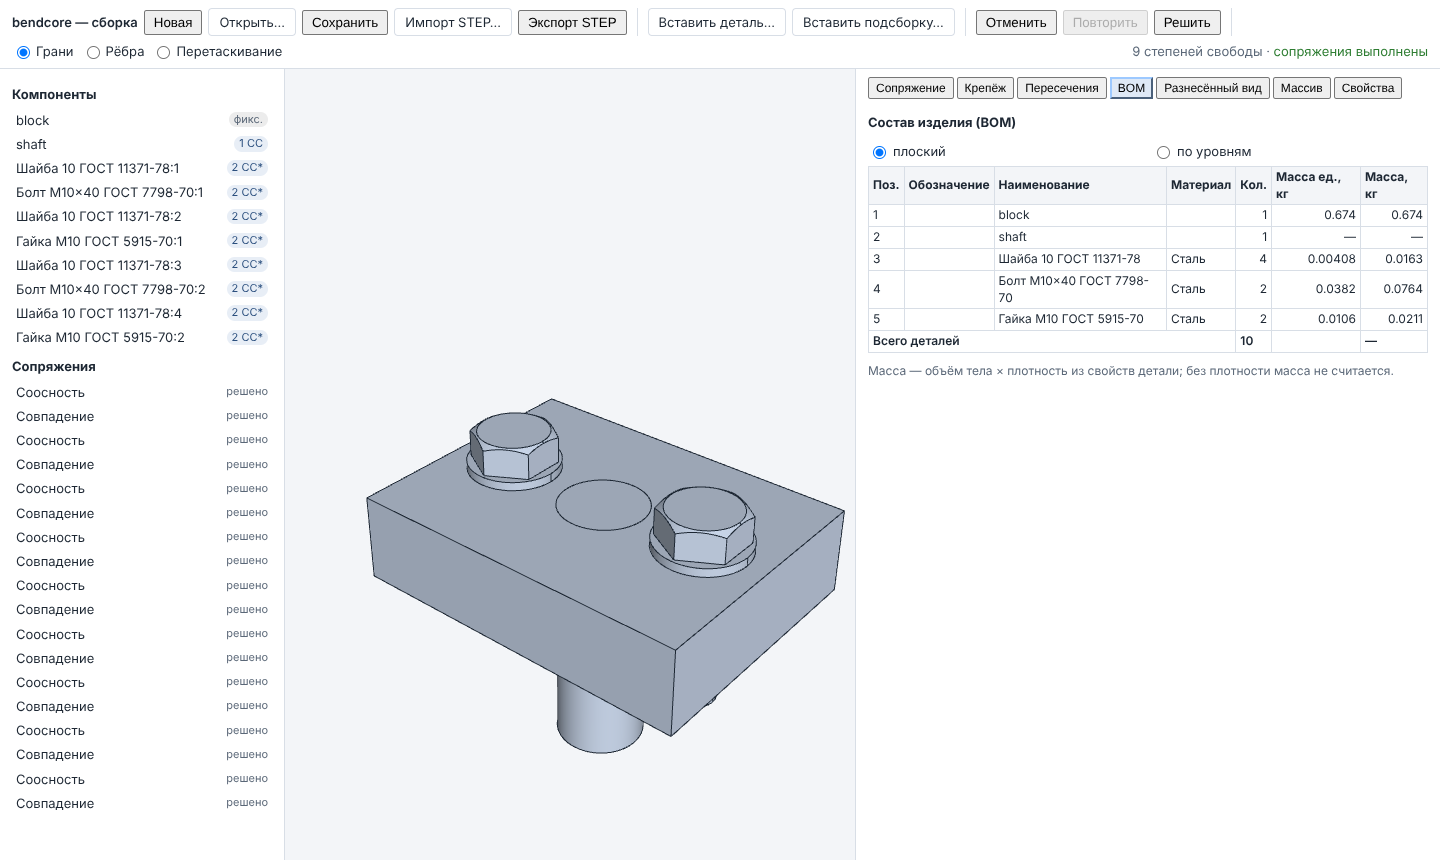
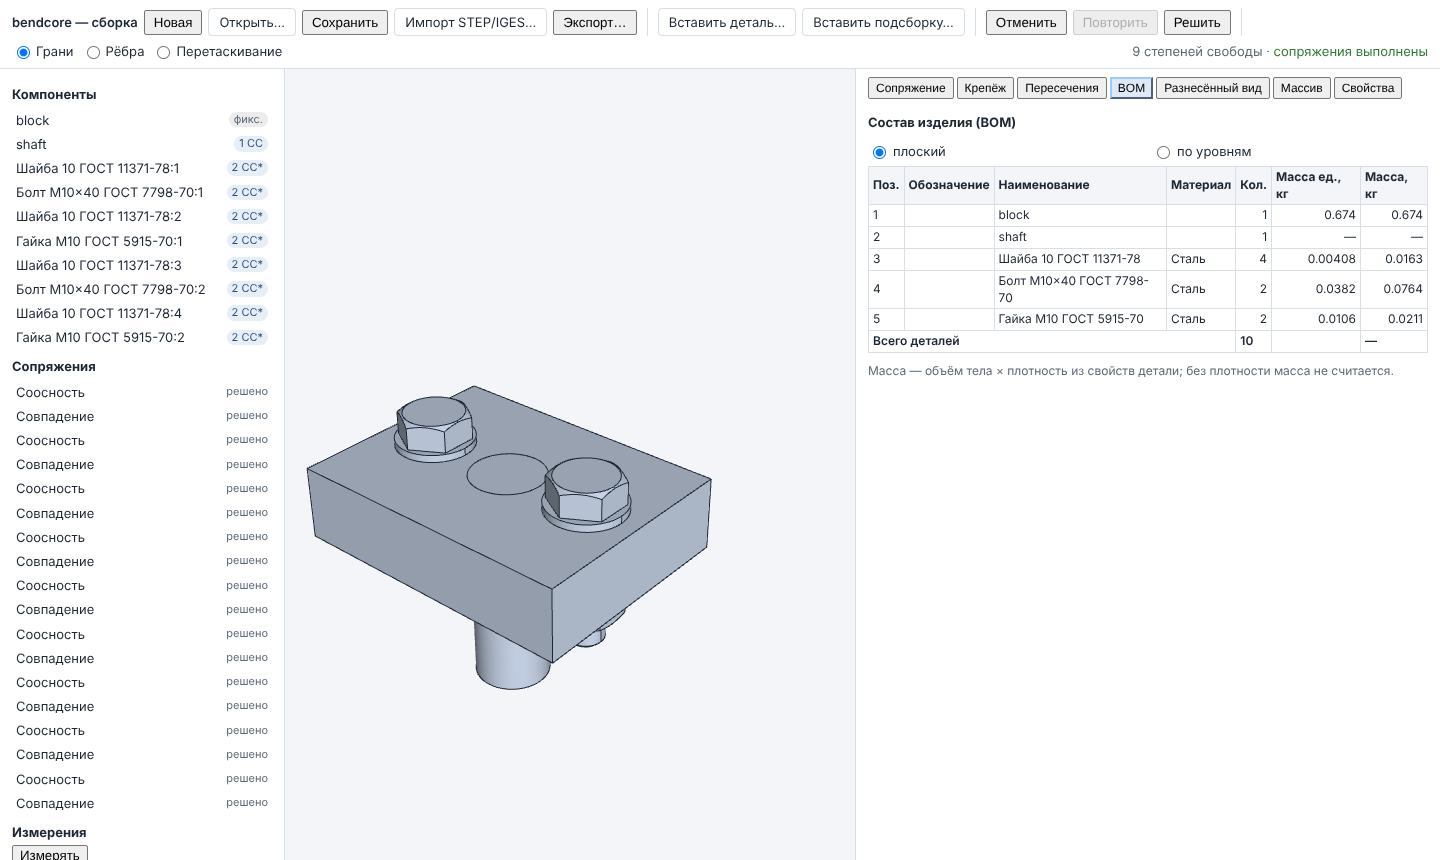
Docs: three.js 0.187, refreshed viewport screenshots
Claude-Session: https://claude.ai/code/session_01Rpe6GEasUXj3fCuBptXKpM

Changed region(s): [[0.1875, 0.4535, 0.5938, 0.8767], [0.3438, 0.0, 0.8438, 0.0302], [0.0, 0.9674, 0.0625, 1.0]]

diff --git a/docs/ui/KERNEL_VIEWPORT.md b/docs/ui/KERNEL_VIEWPORT.md
@@ -138,14 +138,14 @@ message}`, исключения OCCT (`Standard_Failure`) и `std::exception` п
   соединяют соседние точки одной полилинии (`edgeBuffers.ts`). Грани рисуются с
   `polygonOffset`, чтобы рёбра были видны поверх.
 - **Выбор**: щелчок без перетаскивания (≤ 4 px) → `Raycaster.intersectObject` →
-  `faceIndex` треугольника (three.js r128 для индексированной геометрии даёт номер
+  `faceIndex` треугольника (three.js 0.187 для индексированной геометрии даёт номер
   треугольника) → `faceOfTriangle(faceSpans, t)`: двоичный поиск по `firstIndex` диапазонов,
   O(log n). Щелчок мимо модели снимает выбор.
 - **Подсветка**: у группы выбранной грани `materialIndex = 1`, без перестроения буферов.
 - **Панель «Грань»**: `shape.face(i)` — тип поверхности, площадь, ориентация, параметры
   поверхности, точка попадания. Панель «Модель»: число тел/граней/рёбер, объём (только при
   наличии тел), площадь, габарит, число треугольников.
-- **Камера**: `OrbitControls` (three/examples), Z вверх, изометрический вид по ограничивающей
+- **Камера**: `OrbitControls` (`three/addons/controls/OrbitControls.js`), Z вверх, изометрический вид по ограничивающей
   сфере сетки при открытии файла; отрисовка по событию (без постоянного цикла).
 
 ### Автоматическое вписывание
@@ -323,4 +323,12 @@ headless-режиме — через SwiftShader (`--use-angle=swiftshader`).
 - Типы three.js в проекте — собственные объявления `src/declarations.d.ts` (пакета
   `@types/three` нет); в них добавлены используемые вьюпортом члены (`addGroup`, `groups`,
   `boundingSphere`, `intersectObject`, массив материалов `Mesh`, модуль `OrbitControls`).
+- **three.js 0.187** (было 0.128). Внешний вид вьюпортов сохранён: `src/ui/legacyLook.ts`
+  выключает управление цветом (`ColorManagement.enabled = false`), ставит
+  `renderer.outputColorSpace = LinearSRGBColorSpace` (цвета палитры идут в кадр как записаны,
+  как до r152), а интенсивности `AmbientLight`/`DirectionalLight` умножает на π (физические
+  единицы без «старого» деления на π; значения 0,45 и 0,7 остались прежними). Снимки
+  `docs/ui/img/three-upgrade/before_*.png` и `after_*.png` совпадают попиксельно. `Geometry`
+  в коде не использовался (только `BufferGeometry`); `OrbitControls` — из `three/addons`.
+  Jest компилирует ES-модули `three` в CommonJS (`jest.config.js`).
 - Сквозной тест есть только для Chromium.
